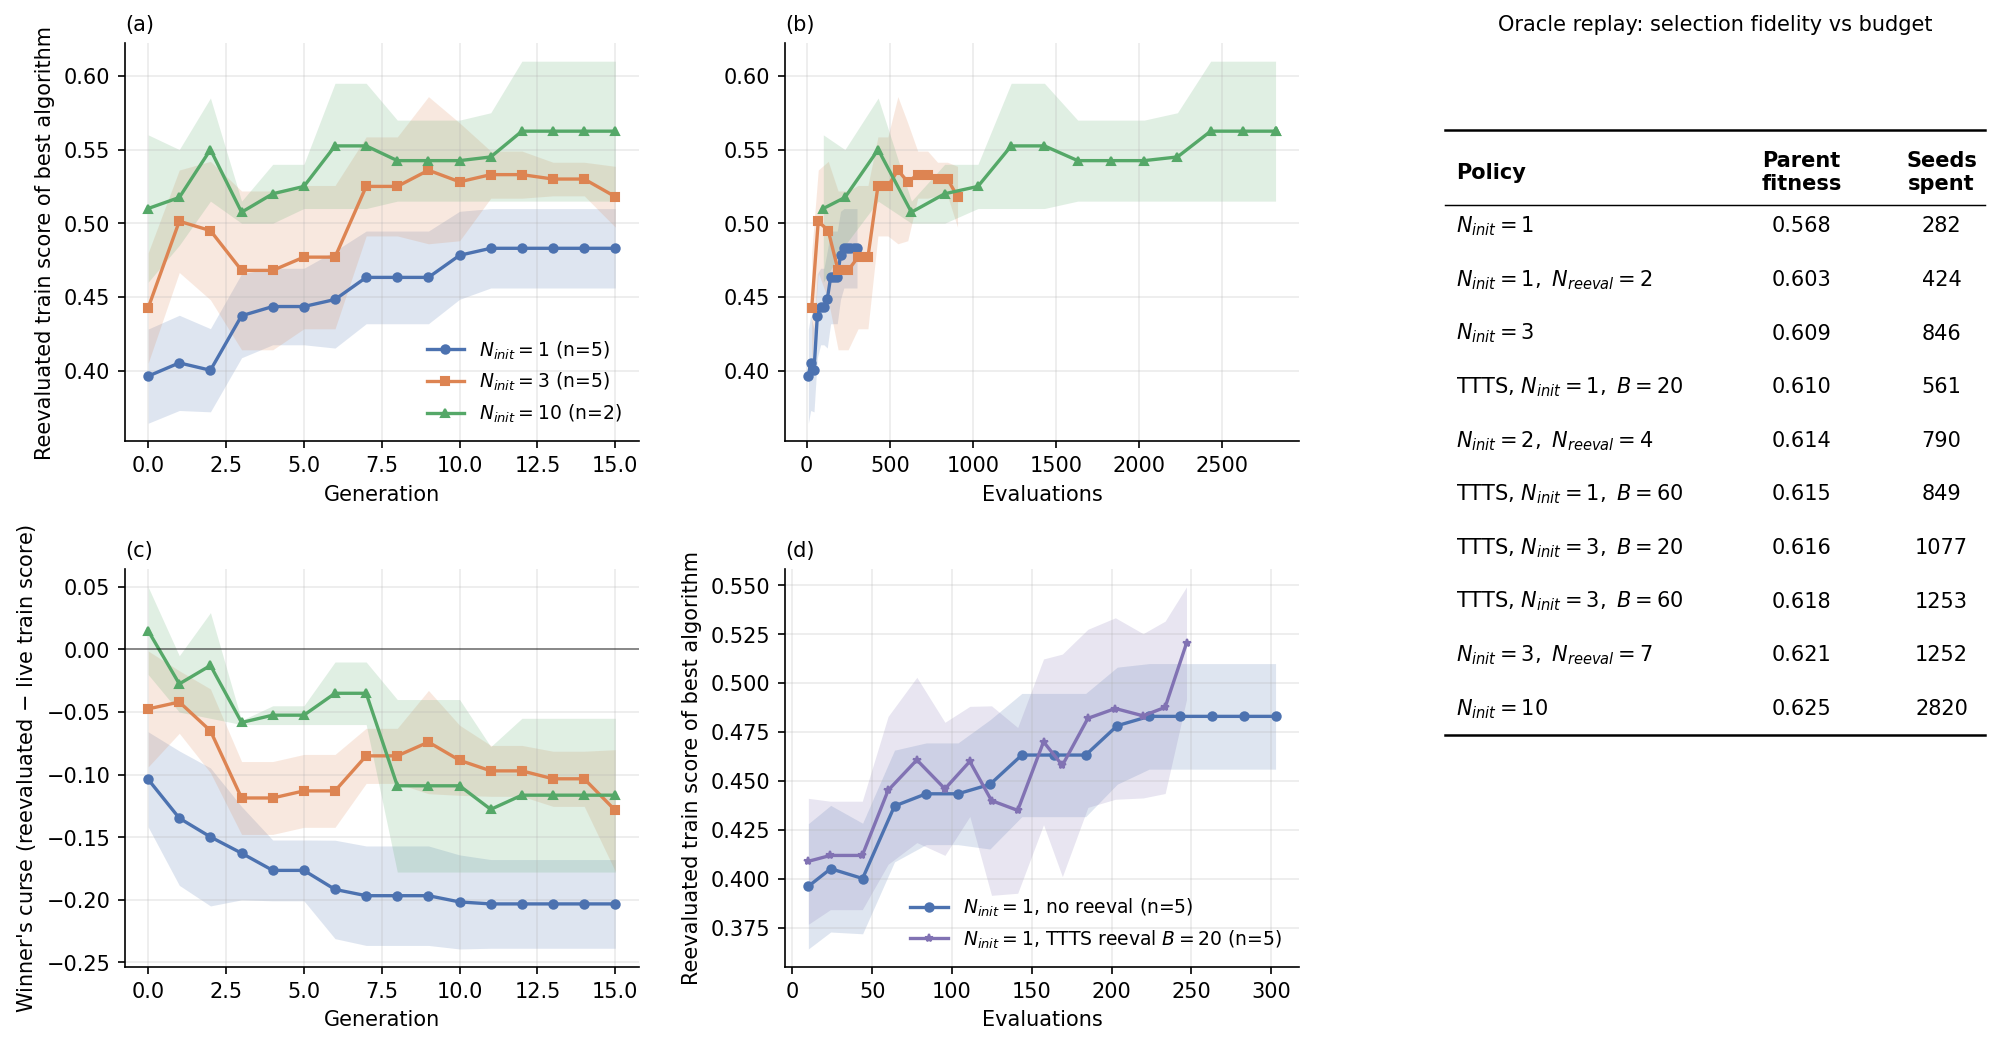
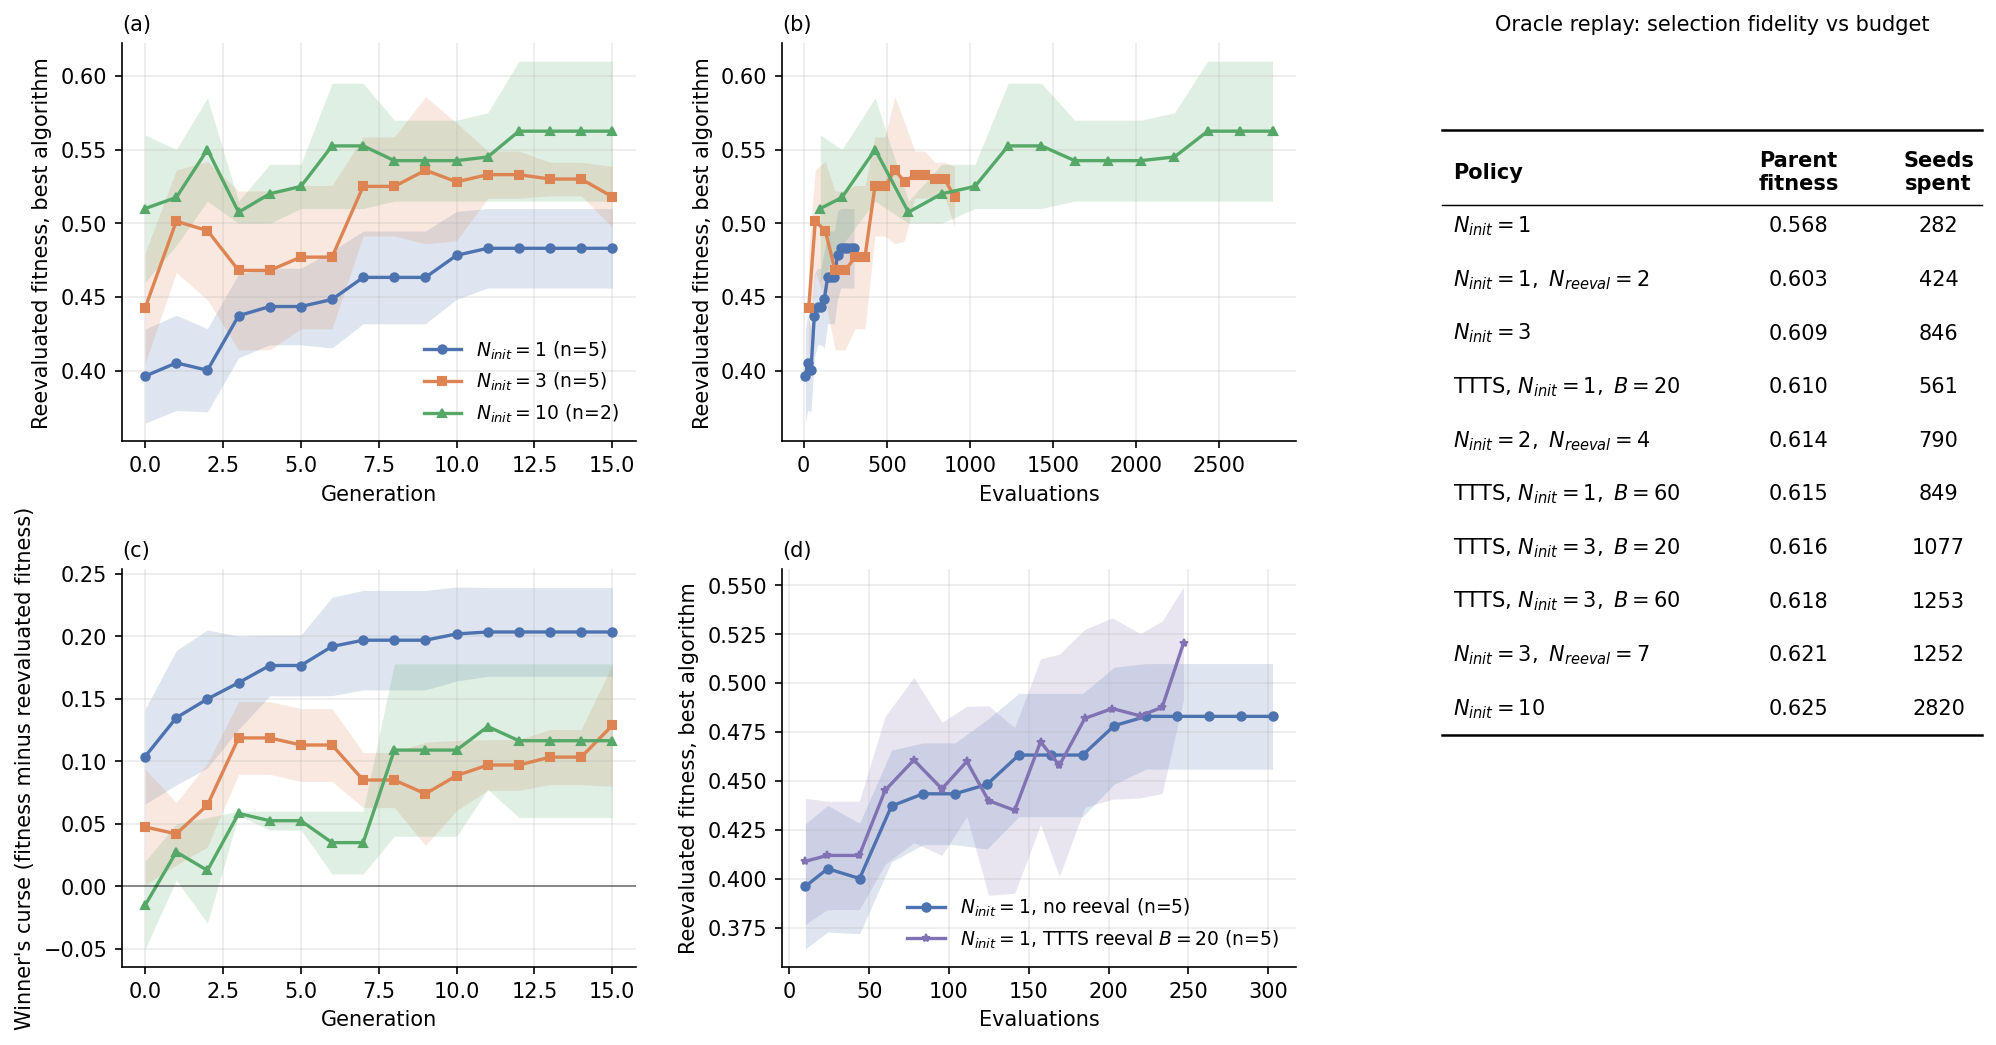
Reeval figure: positive winner's curse, fitness labels

diff --git a/figures/plot_n1_n3_n10_reeval_train.py b/figures/plot_n1_n3_n10_reeval_train.py
@@ -3,7 +3,7 @@ oracle-replay table.
 
   (a) reeval train score of best algorithm vs generation, n1/n3/n10
   (b) same vs cumulative evaluations
-  (c) winner's curse = reeval train score - live train score of the best algorithm
+  (c) winner's curse = live train fitness - reevaluated train fitness of the best algorithm
   (d) n1 (no reeval) vs n1 smart TTTS reeval (budget-matched 20 evals/gen), vs evals
   (e) oracle-replay table (from plots/oracle_replay/oracle_replay_table.json)
 
@@ -68,7 +68,7 @@ def load_method(api, rids):
         m = pe.cached_per_gen_metrics(f"runs/{rid}")
         ser = fetch_train_series(api, wandb_id(rid))
         re_ff = pe.forward_fill_by_gen([(g, v[0]) for g, v in ser.items()], GENS)
-        wc_ff = pe.forward_fill_by_gen([(g, v[0] - v[1]) for g, v in ser.items()
+        wc_ff = pe.forward_fill_by_gen([(g, v[1] - v[0]) for g, v in ser.items()
                                         if v[1] is not None], GENS)
         cum = dict(zip(m["gen"].tolist(), m["cum_evals"].tolist()))
         R.append([re_ff.get(g, np.nan) for g in GENS])
@@ -146,9 +146,10 @@ def main():
 
     axa.set_xlabel("Generation"); axb.set_xlabel("Evaluations")
     axc.set_xlabel("Generation"); axd.set_xlabel("Evaluations")
-    axa.set_ylabel("Reevaluated train score of best algorithm")
-    axd.set_ylabel("Reevaluated train score of best algorithm")
-    axc.set_ylabel("Winner's curse (reevaluated $-$ live train score)")
+    axa.set_ylabel("Reevaluated fitness, best algorithm")
+    axb.set_ylabel("Reevaluated fitness, best algorithm")
+    axd.set_ylabel("Reevaluated fitness, best algorithm")
+    axc.set_ylabel("Winner's curse (fitness minus reevaluated fitness)")
     axa.set_title("(a)", loc="left", fontsize=10); axb.set_title("(b)", loc="left", fontsize=10)
     axc.set_title("(c)", loc="left", fontsize=10); axd.set_title("(d)", loc="left", fontsize=10)
     for ax in (axa, axb, axc, axd):
